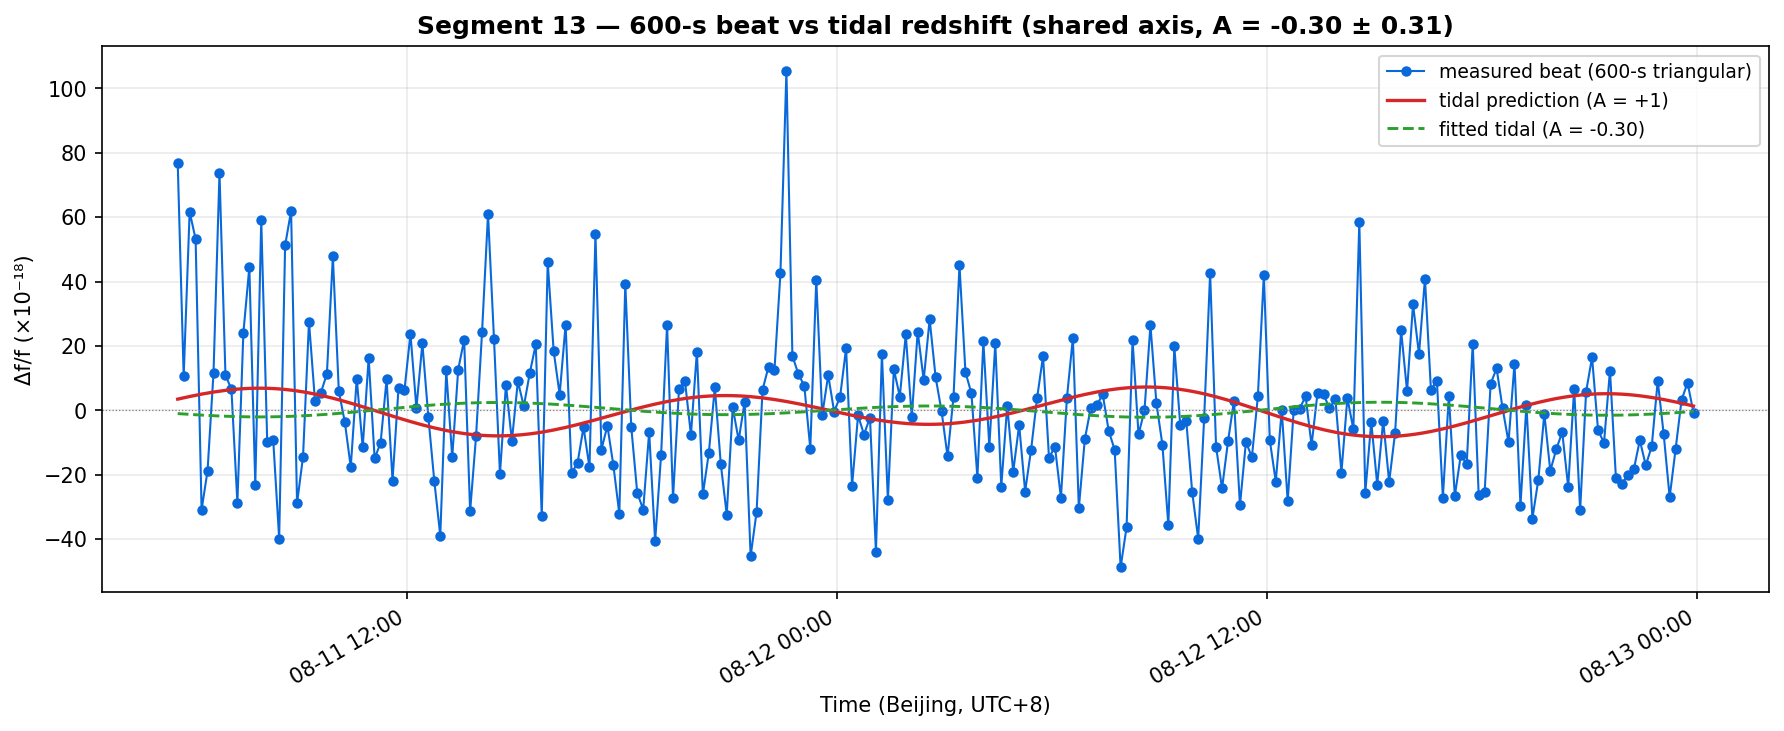
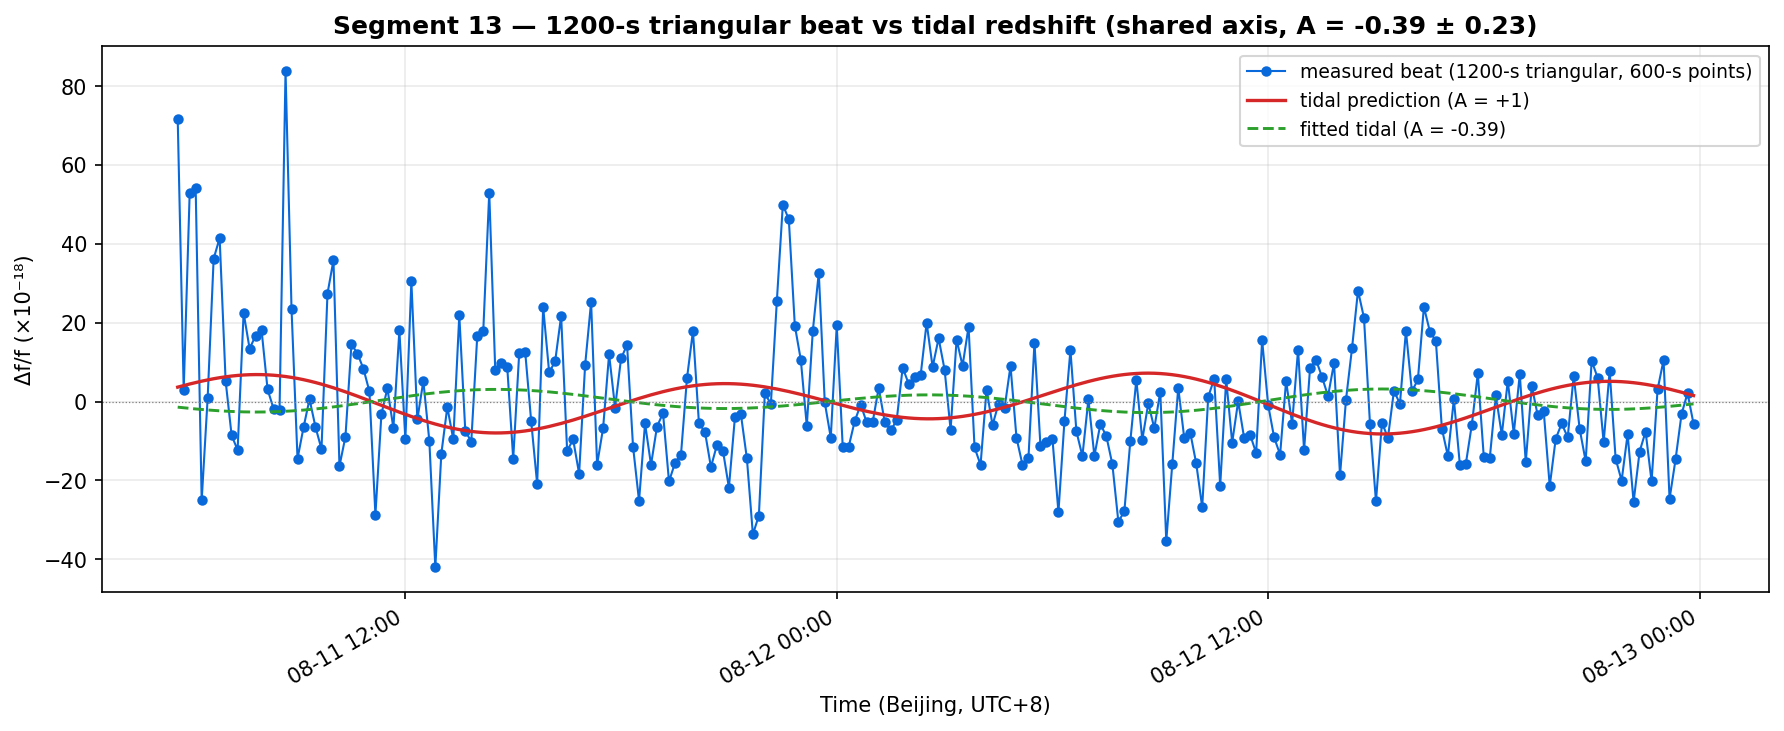
Enlarge segment-13 triangular window to 1200 s (600-s stride)
- Sliding 1200-s triangular (Bartlett) window, one point per 600 s
- Noise std drops 0.00555 -> 0.00403 Hz; amplitude fit A = -0.39 +/- 0.23
- Tidal amplitude further excluded (6.1 sigma from A=+1)

diff --git a/clock/segment_analysis/segment13_triangular.py b/clock/segment_analysis/segment13_triangular.py
@@ -1,12 +1,12 @@
 #!/usr/bin/env python3
-"""Segment 13 (jump-free) — data selection, normalization, 600-s triangular integration.
+"""Segment 13 (jump-free) — 1200-s triangular window, one point every 600 s.
 
 Follows the analysis protocol:
 1. Select the jump-free segment 13 window (2026-08-11 05:30 ~ 2026-08-13 00:00)
    from the out-of-loop 1550 nm link beat frequency (FXE_B8, 8th data column).
 2. Normalize: subtract the single-session mean (only the variation matters).
-3. Produce one point per 600 s using triangular (Bartlett) integration, so every
-   1-s sample contributes.
+3. Produce one point every 600 s using a sliding triangular (Bartlett) window of
+   1200 s full width (50% overlap), so every 1-s sample contributes.
 Then plot the 600-s points and the tidal gravitational prediction on a shared
 time axis (both converted to the same units via the program's Dr coefficient).
 """
@@ -43,7 +43,8 @@ UTC_OFFSET = np.timedelta64(8, "h")
 SEG_START = np.datetime64("2026-08-11 05:30:00")  # Beijing time
 SEG_END = np.datetime64("2026-08-13 00:00:00")    # Beijing time
 
-TAU = 600  # seconds per point
+WINDOW = 1200  # triangular window full width (s)
+STRIDE = 600   # one point every 600 s (50% overlap)
 
 
 def read_beat(path: Path) -> tuple[np.ndarray, np.ndarray]:
@@ -60,14 +61,17 @@ def read_beat(path: Path) -> tuple[np.ndarray, np.ndarray]:
     return np.array(stamps, dtype="datetime64[s]"), data[:, 2]
 
 
-def triangular_segment(x: np.ndarray, tau: int) -> np.ndarray:
-    """Non-overlapping triangular (Bartlett) weighted means, one point per tau samples."""
-    n_seg = len(x) // tau
-    x = x[: n_seg * tau]
-    k = np.arange(tau)
-    tri = 1.0 - np.abs(2 * k - (tau - 1)) / (tau + 1)
+def triangular_window(x: np.ndarray, window: int, stride: int) -> np.ndarray:
+    """Sliding triangular (Bartlett) weighted mean; one point per stride."""
+    k = np.arange(window)
+    tri = 1.0 - np.abs(2 * k - (window - 1)) / (window + 1)
     tri = tri / tri.sum()
-    return (x.reshape(n_seg, tau) * tri).sum(axis=1)
+    n_out = (len(x) - window) // stride + 1
+    out = np.empty(n_out)
+    for i in range(n_out):
+        start = i * stride
+        out[i] = float(np.dot(tri, x[start : start + window]))
+    return out
 
 
 def tidal_prediction(t_stamps: np.ndarray) -> np.ndarray:
@@ -105,11 +109,11 @@ def main() -> int:
     print(f"session mean beat: {b.mean():.4f} Hz (subtracted)")
     print(f"normalized beat: mean={beat_norm.mean():.2e} Hz, std={beat_norm.std():.4f} Hz")
 
-    # 3. 600-s triangular integration
-    beat_tri = triangular_segment(beat_norm, TAU)
-    t_tri = t[TAU // 2 :: TAU][: len(beat_tri)]
-    print("\n=== Step 3: 600-s triangular integration ===")
-    print(f"points after integration: {len(beat_tri)} ({len(beat_tri)*TAU/3600:.1f} h)")
+    # 3. 1200-s triangular window, one point every 600 s
+    beat_tri = triangular_window(beat_norm, WINDOW, STRIDE)
+    t_tri = t[WINDOW // 2 :: STRIDE][: len(beat_tri)]
+    print("\n=== Step 3: 1200-s triangular window (600-s stride) ===")
+    print(f"points after integration: {len(beat_tri)} ({len(beat_tri)*STRIDE/3600:.1f} h span)")
     print(f"integrated beat std: {beat_tri.std():.5f} Hz")
 
     # tidal prediction on the same 600-s grid, same units (beat Hz)
@@ -127,7 +131,7 @@ def main() -> int:
 
     fig, ax = plt.subplots(figsize=(12, 5))
     ax.plot(t_tri, beat_ff, "o-", ms=4, lw=1.0, color="#0969da",
-            label="measured beat (600-s triangular)")
+            label="measured beat (1200-s triangular, 600-s points)")
     ax.plot(t_tri, tide_ff, lw=1.6, color="#d62728",
             label="tidal prediction (A = +1)")
     ax.plot(t_tri, A * tide_ff, lw=1.4, color="#2ca02c", ls="--",
@@ -136,7 +140,7 @@ def main() -> int:
     ax.set_ylabel("Δf/f (×10⁻¹⁸)")
     ax.set_xlabel("Time (Beijing, UTC+8)")
     ax.set_title(
-        f"Segment 13 — 600-s beat vs tidal redshift (shared axis, "
+        f"Segment 13 — 1200-s triangular beat vs tidal redshift (shared axis, "
         f"A = {A:+.2f} ± {u_A:.2f})",
         fontweight="bold",
     )
